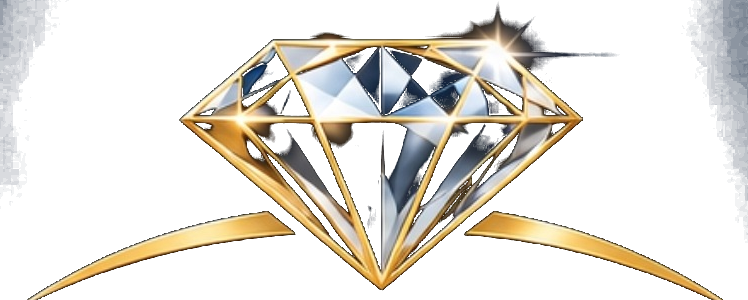
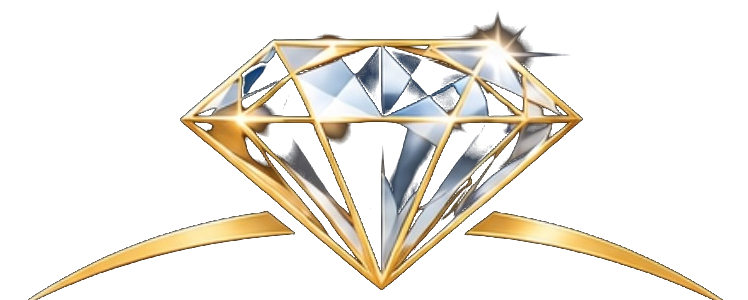
fix(pvc-card): transparent crest and frameless floating sapphire on PVC card

diff --git a/src/components/EditableReportTemplates.tsx b/src/components/EditableReportTemplates.tsx
@@ -437,7 +437,7 @@ export default function EditableReportTemplates({
               <div className="flex items-center justify-between gap-4 pb-4 mb-3 border-b border-amber-400/20">
                 <div className="flex items-center gap-3">
                   <img
-                    src="/brand/wtc_crest.png"
+                    src="/brand/wtc_crest.png?v=3"
                     alt="WTC Gem Lab Crest"
                     className="h-12 w-auto object-contain"
                   />
@@ -561,33 +561,51 @@ export default function EditableReportTemplates({
 
                 {/* Right Column: Clean Stone Photo + Bottom-Right QR Code (5 cols) */}
                 <div className="sm:col-span-5 flex flex-col items-end justify-between gap-4">
-                  <div
-                    style={{ width: '156px', height: '124px' }}
-                    className={`rounded-2xl border-2 border-[#E5C158]/85 shadow-[0_10px_25px_rgba(0,0,0,0.5)] overflow-hidden relative self-center sm:self-end ${
-                      certificate.imageUrl.includes('sample_sapphire')
-                        ? 'bg-white p-1.5'
-                        : 'bg-[#070D1B]'
-                    }`}
-                  >
-                    <img
-                      src={certificate.imageUrl}
-                      alt={certificate.variety}
-                      className={`w-full h-full ${
-                        certificate.imageUrl.includes('sample_sapphire')
-                          ? 'object-contain rounded-xl'
-                          : 'object-cover'
-                      }`}
-                    />
-                    {certificate.showMicroscopeOnReport && certificate.microscopeImageUrl && (
-                      <div className="absolute bottom-1 right-1 w-10 h-10 rounded border border-amber-400 overflow-hidden shadow-md bg-slate-950">
-                        <img
-                          src={certificate.microscopeImageUrl}
-                          alt="Inclusion"
-                          className="w-full h-full object-cover"
-                        />
-                      </div>
-                    )}
-                  </div>
+                  {certificate.imageUrl.includes('sample_sapphire') ? (
+                    <div
+                      style={{ width: '156px', height: '124px' }}
+                      className="relative self-center sm:self-end flex items-center justify-center"
+                    >
+                      <img
+                        src={
+                          certificate.imageUrl.includes('?')
+                            ? certificate.imageUrl
+                            : `${certificate.imageUrl}?v=3`
+                        }
+                        alt={certificate.variety}
+                        className="w-full h-full object-contain drop-shadow-[0_14px_22px_rgba(0,0,0,0.65)]"
+                      />
+                      {certificate.showMicroscopeOnReport && certificate.microscopeImageUrl && (
+                        <div className="absolute bottom-1 right-1 w-10 h-10 rounded-md border border-[#E5C158]/80 overflow-hidden shadow-lg bg-[#070D1B]">
+                          <img
+                            src={certificate.microscopeImageUrl}
+                            alt="Inclusion"
+                            className="w-full h-full object-cover"
+                          />
+                        </div>
+                      )}
+                    </div>
+                  ) : (
+                    <div
+                      style={{ width: '156px', height: '124px' }}
+                      className="rounded-xl bg-[#070D1B] border border-[#E5C158]/75 shadow-[0_12px_28px_rgba(0,0,0,0.6)] overflow-hidden relative self-center sm:self-end"
+                    >
+                      <img
+                        src={certificate.imageUrl}
+                        alt={certificate.variety}
+                        className="w-full h-full object-cover"
+                      />
+                      {certificate.showMicroscopeOnReport && certificate.microscopeImageUrl && (
+                        <div className="absolute bottom-1 right-1 w-10 h-10 rounded-md border border-[#E5C158]/80 overflow-hidden shadow-lg bg-[#070D1B]">
+                          <img
+                            src={certificate.microscopeImageUrl}
+                            alt="Inclusion"
+                            className="w-full h-full object-cover"
+                          />
+                        </div>
+                      )}
+                    </div>
+                  )}
 
                   {qrDataUrl && (
                     <div className="bg-white p-1.5 rounded-md shadow-xl border border-amber-300/60 self-center sm:self-end">
